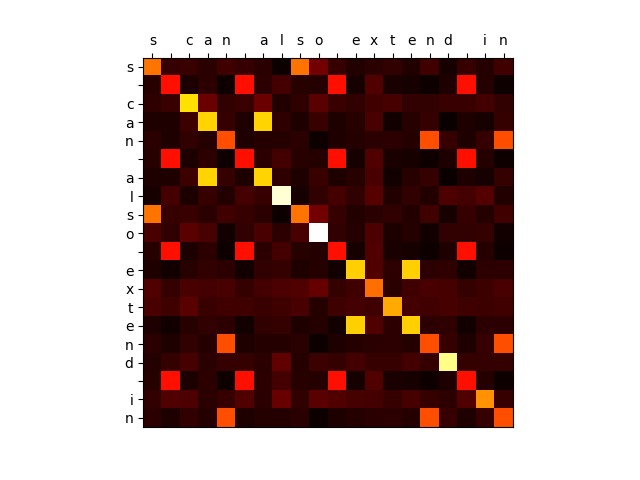
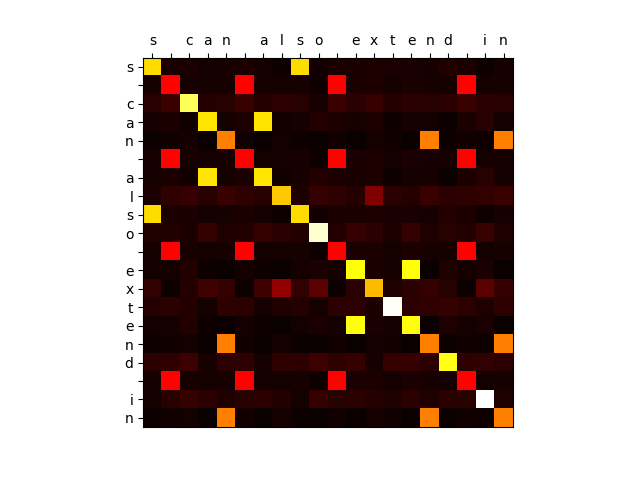
finished Part 1 (positional encodings)

diff --git a/a3-distrib/transformer.py b/a3-distrib/transformer.py
@@ -82,6 +82,7 @@ class TransformerLayer(nn.Module):
         self.WV = nn.Linear(d_model, d_internal, bias=False)
         # self.WO = nn.Linear(d_internal, d_model, bias=False)
         self.softmax = nn.Softmax(dim=-1)
+        self.posenc = PositionalEncoding(d_model)
 
         # FFN
         self.ffn = nn.Sequential(
@@ -92,6 +93,8 @@ class TransformerLayer(nn.Module):
         )
 
     def forward(self, input_vecs):
+        input_vecs = self.posenc(input_vecs)
+        
         Q = self.WQ(input_vecs)
         K = self.WK(input_vecs)
         V = self.WV(input_vecs)
